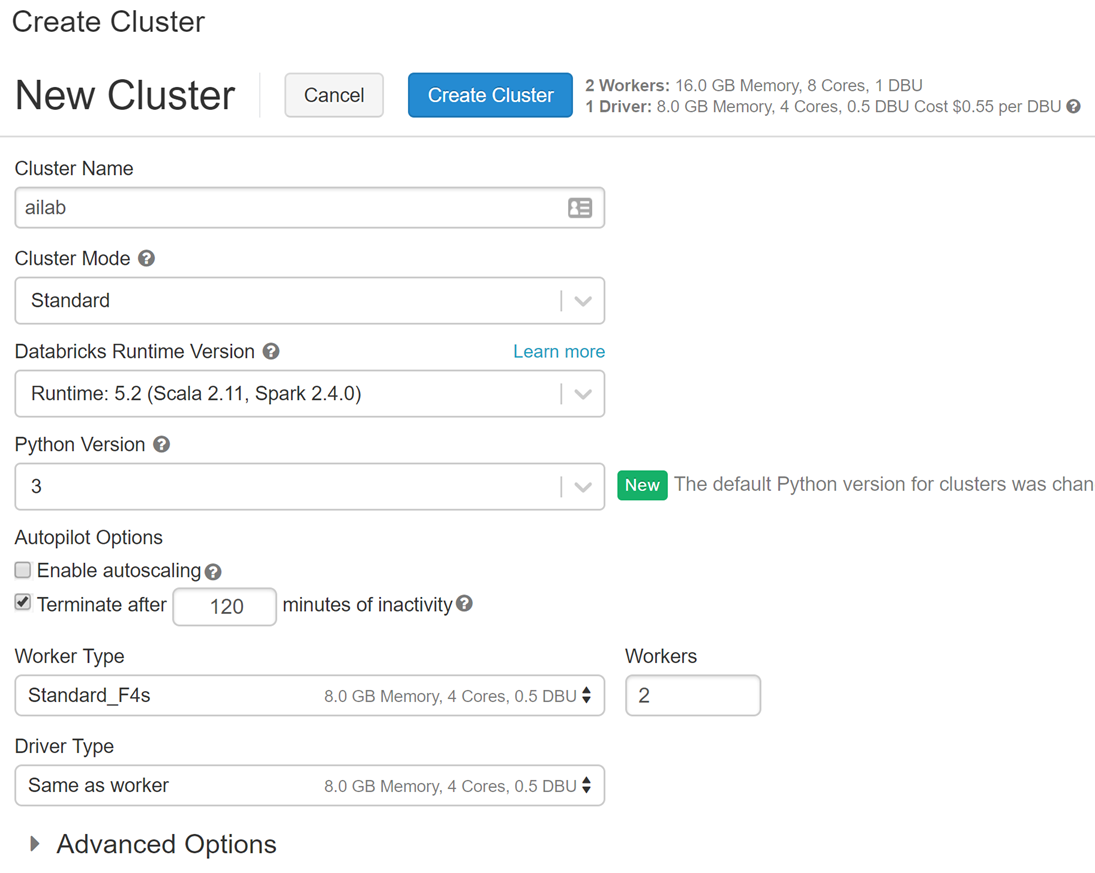
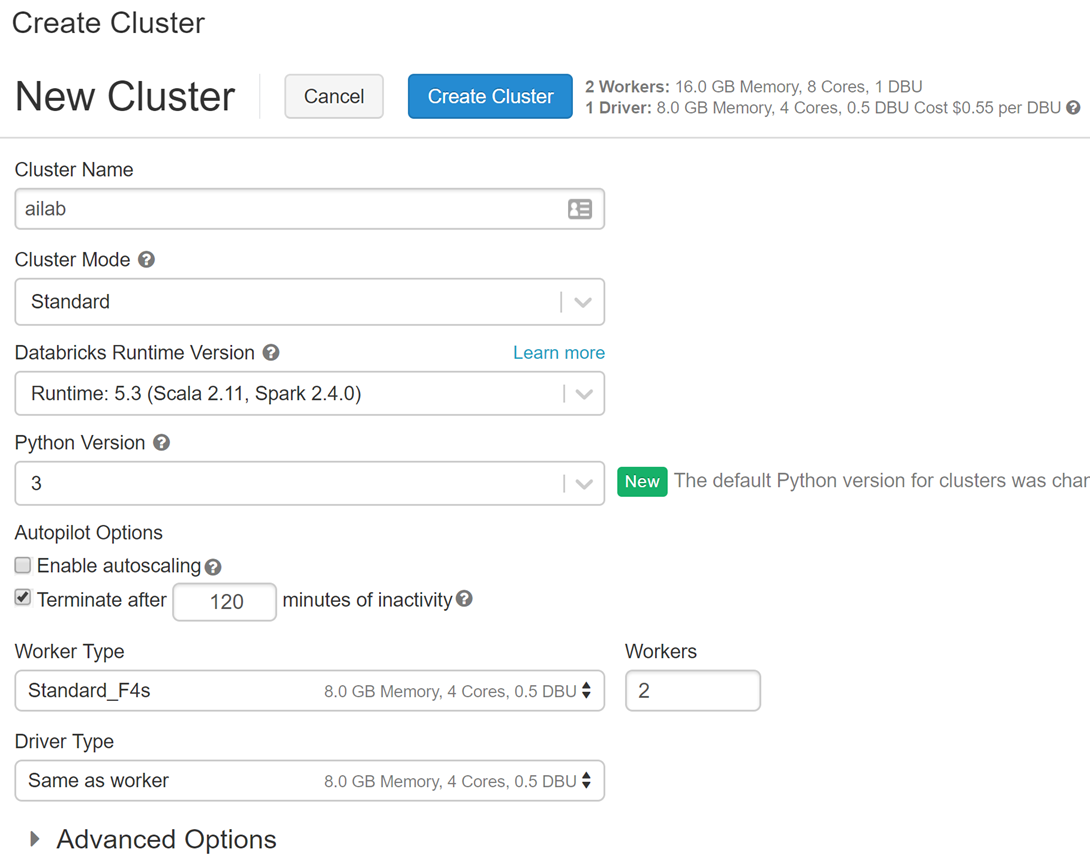
More clarification on how to install the libraries

diff --git a/Hands-on lab/HOL step-by step - Cognitive services and deep learning.md b/Hands-on lab/HOL step-by step - Cognitive services and deep learning.md
@@ -142,7 +142,7 @@ In this exercise, you will setup your Azure Databricks account and Workspace.
 
    b. **Cluster Mode**: Standard
 
-   c. **Databricks Runtime Version**: 5.2 (includes Apache Spark 2.4.0, Scala 2.11)
+   c. **Databricks Runtime Version**: 5.3 (includes Apache Spark 2.4.0, Scala 2.11)
 
    d. **Python Version**: 3
 
@@ -192,20 +192,6 @@ The notebook you will run depends on certain Python libraries like `nltk` and `g
 
     ![The Confirm and Restart button is displayed.](media/confirm-and-restart.png 'Confirm and Restart')
 
-8.  After the cluster restarts, select the **Libraries** tab and then select **Install New**.
-
-    ![The Libraries tab showing the Install New button.](media/image3-6.png 'Install New')
-
-    > **Note**: There are interface updates being deployed, if you do not see the Install New button, instead go to the Azure Databricks menu option in your Workspace (the very top option on the left) and select Import Library. Then select a source of **Upload Python Egg or PyPi** and then provide the Package name specified in the following steps in the PyPi Name text box. Then in the Status on running clusters list, check the checkbox Attach that is listed to the left of your cluster's name to install the library on your cluster. When successful the Status should read `Attached`.
-
-9.  In the Library Source, select **PyPi** and in the Package text box type `azureml-sdk[databricks]` and select Create.
-
-    ![The Install Library dialog showing PyPi as the source and azureml-sdk[databricks] as the package.](media/install-azureml-sdk.png 'Install Library')
-
-10. An entry for `azureml-sdk[databricks]` will appear in the list with a status of installing followed by installed. All the other required libraries are installed through the cluster init script you added.
-
-    ![Installed libraries on the cluster.](media/cluster-installed-library.png 'Libraries')
-
 ### Task 2: Read through and execute the Summarization notebook
 
 1. Within the Workspace, select the Workspace item in the menu and navigate to the folder where you uploaded the Databricks Archive (which should be [your-name/AI-lab]), and select the notebook called `01 Summarize`. This will open the notebook so you can read and execute the code it contains.
@@ -214,11 +200,33 @@ The notebook you will run depends on certain Python libraries like `nltk` and `g
 
 ### Task 3: Provision the Azure Machine Learning Workspace and Create the Summarization service
 
-1. Within the Workspace, select the Workspace item in the menu and navigate to the folder where you uploaded the Databricks Archive (which should be [your-name/AI-lab]), and select the notebook called `02 Deploy Summarizer Web Service`. This will open the notebook so you can read and execute the code it contains.
+1. From the left-hand menu in your Workspace, select **Clusters**.
 
-2. Read the instructions at the top of the notebook, and execute the cells as instructed. Remember you can use `SHIFT + ENTER` to execute the currently selected cell, and if you do not have a cluster attached, you will be prompted to attach to the cluster you recently deployed. **Note that you will be directed to attach the `azureml-sdk[databricks]` library in the notebook using the same procedure you followed in Task 1.**
+   ![The Clusters menu option.](media/image3-4.png 'Clusters')
 
-> Pay attention to the top of the notebook where you are asked to ensure the `Azure Machine Learning Python SDK` (`azureml-sdk[databricks]`) is installed. If you are running this lab in a hosted environment, it will already be installed. Otherwise, follow the posted instructions to install the library, ensuring it is installed and attached to your cluster before you run the cells in the notebook.
+2. In the list of clusters, select your cluster.
+
+   ![The list of Interactive Clusters.](media/image3-5.png 'Interactive Clusters')
+
+3. Select the **Libraries** tab and then select **Install New**.
+
+   ![The Libraries tab showing the Install New button.](media/image3-6.png 'Install New')
+
+   > **Note**: There are interface updates being deployed, if you do not see the Install New button, instead go to the Azure Databricks menu option in your Workspace (the very top option on the left) and select Import Library. Then select a source of **Upload Python Egg or PyPi** and then provide the Package name specified in the following steps in the PyPi Name text box. Then in the Status on running clusters list, check the checkbox Attach that is listed to the left of your cluster's name to install the library on your cluster. When successful the Status should read `Attached`.
+
+4. In the Library Source, select **PyPi** and in the Package text box type `azureml-sdk[databricks]` and select Create.
+
+   ![The Install Library dialog showing PyPi as the source and azureml-sdk[databricks] as the package.](media/install-azureml-sdk.png 'Install Library')
+
+5. An entry for `azureml-sdk[databricks]` will appear in the list with a status of installing followed by installed. All the other required libraries are installed through the cluster init script you added.
+
+   ![Installed libraries on the cluster.](media/cluster-installed-library.png 'Libraries')
+
+6. Within the Workspace, select the Workspace item in the menu and navigate to the folder where you uploaded the Databricks Archive (which should be [your-name/AI-lab]), and select the notebook called `02 Deploy Summarizer Web Service`. This will open the notebook so you can read and execute the code it contains.
+
+7. Read the instructions at the top of the notebook, and execute the cells as instructed. Remember you can use `SHIFT + ENTER` to execute the currently selected cell, and if you do not have a cluster attached, you will be prompted to attach to the cluster you recently deployed.
+
+   > Pay attention to the top of the notebook where you are asked to ensure the `Azure Machine Learning Python SDK` (`azureml-sdk[databricks]`) is installed. You completed this in steps 3 and 4 above.
 
 ## Exercise 3: Create and Deploy a TensorFlow Model
 
@@ -232,7 +240,7 @@ In this exercise, you will use TensorFlow to construct and train a simple deep n
 
 2. Read the instructions at the top of the notebook, and execute the cells as instructed. Remember you can use `SHIFT + ENTER` to execute the currently selected cell, and if you do not have a cluster attached, you will be prompted to attach to the cluster you recently deployed.
 
-> Pay attention to the top of the notebook where you are asked to ensure the `tensorflow` and `tflearn` libraries are installed. If you are running this lab in a hosted environment, they will already be installed. Otherwise, follow the posted instructions to install the libraries, ensuring they are installed and attached to your cluster before you run the cells in the notebook.
+   > Pay attention to the top of the notebook where you are asked to ensure the `tensorflow` and `tflearn` libraries are installed. If you are running this lab in a hosted environment, they will already be installed. Otherwise, follow the posted instructions to install the libraries, ensuring they are installed and attached to your cluster before you run the cells in the notebook.
 
 ### Task 2: Deploy the TensorFlow model
 
